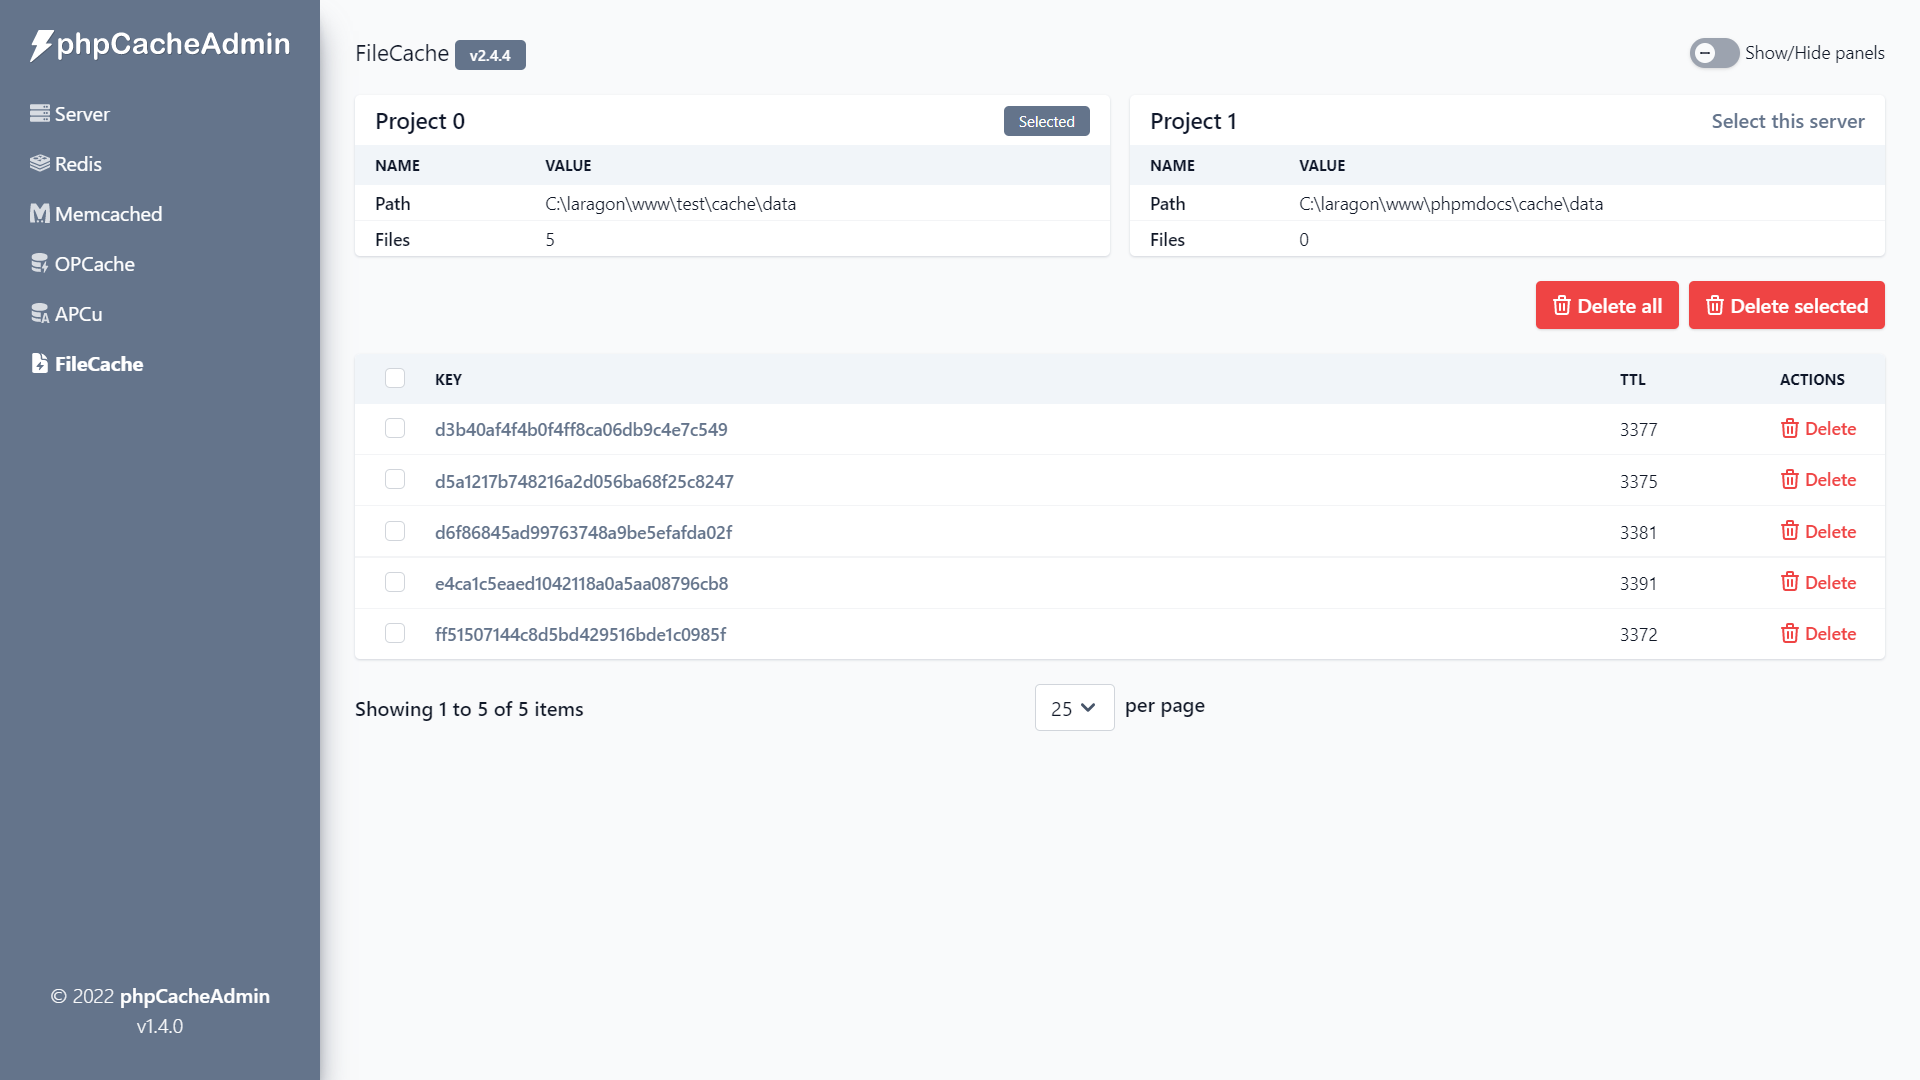
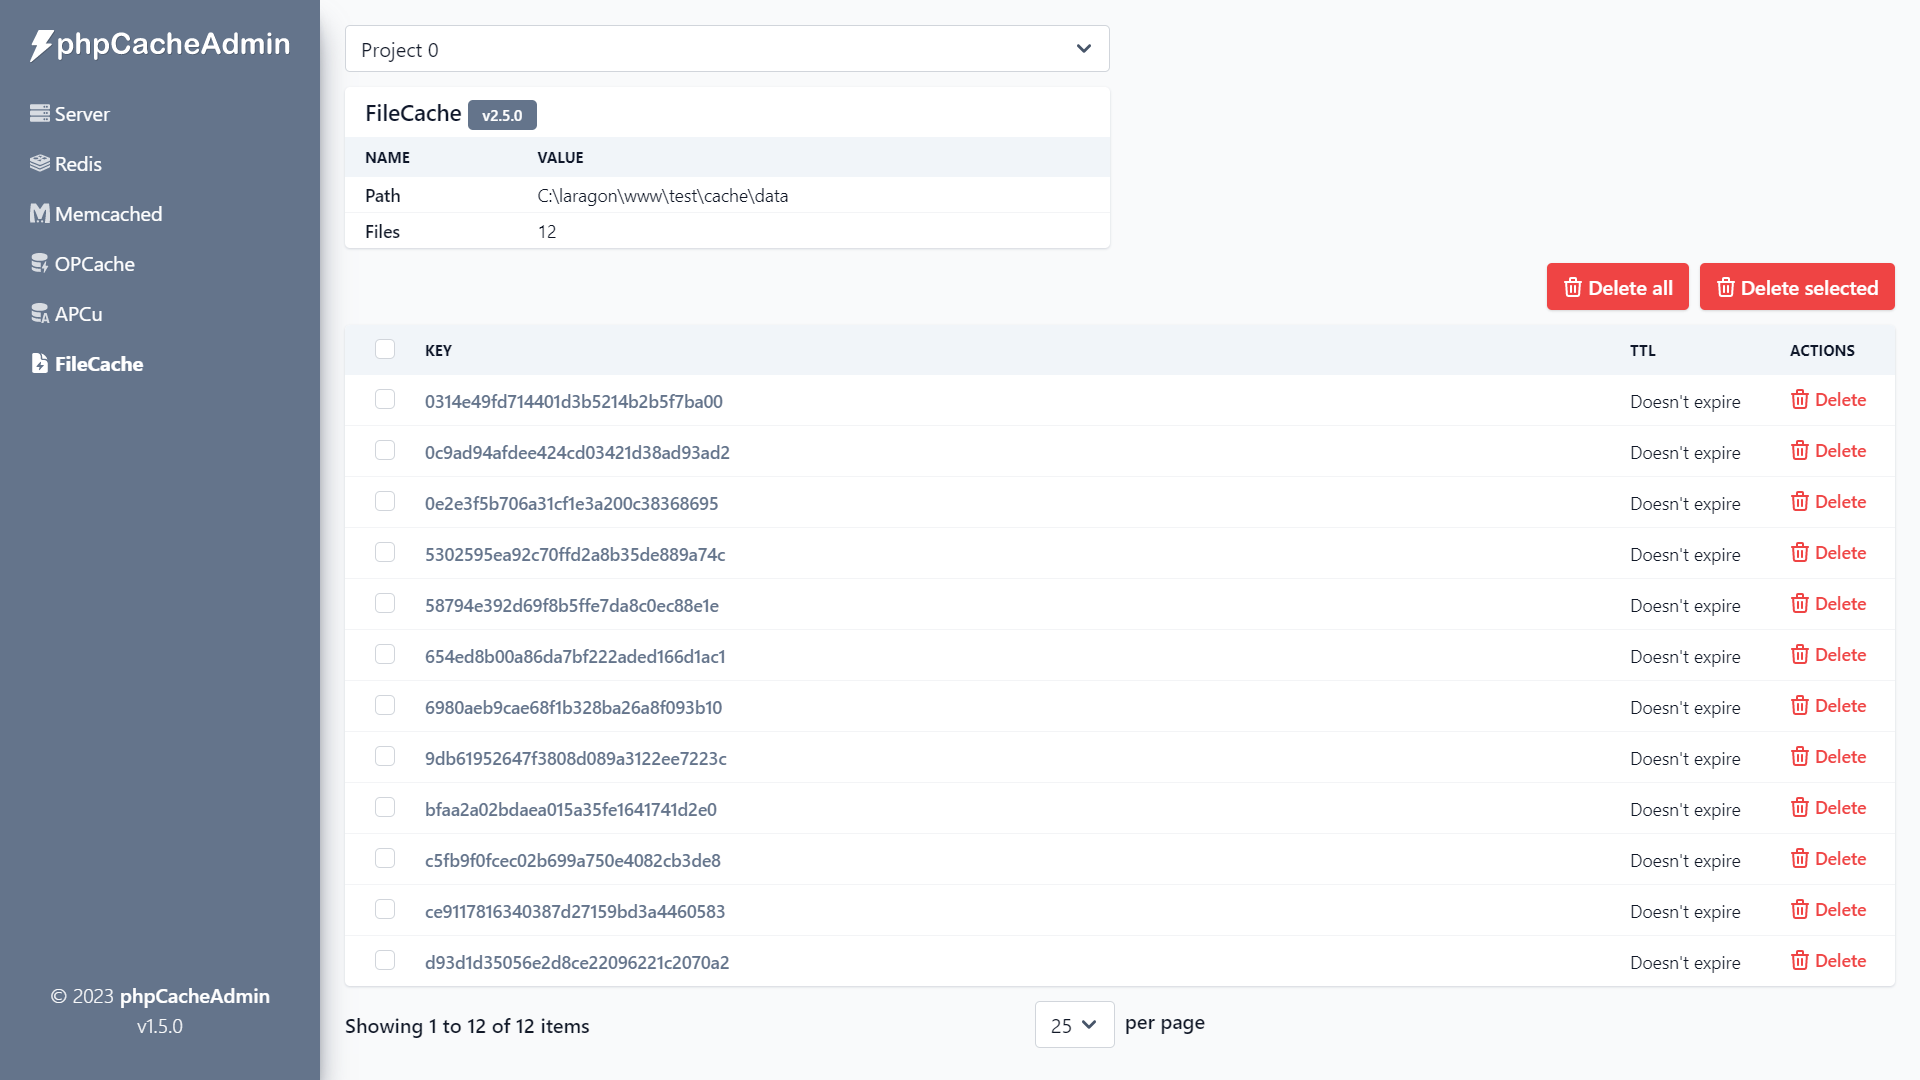
v1.3.0

diff --git a/src/FileCacheTrait.php b/src/FileCacheTrait.php
@@ -12,8 +12,7 @@ declare(strict_types=1);
 
 namespace RobiNN\FileCache;
 
-use RobiNN\Cache\CacheException;
-use RobiNN\Pca\Dashboards\DashboardException;
+use RobiNN\Cache\Cache;
 use RobiNN\Pca\Format;
 use RobiNN\Pca\Helpers;
 use RobiNN\Pca\Http;
@@ -21,31 +20,21 @@ use RobiNN\Pca\Paginator;
 use RobiNN\Pca\Value;
 
 trait FileCacheTrait {
-    /**
-     * @return array<int, mixed>
-     */
-    private function panels(): array {
-        $panels = [];
+    private function panels(): string {
+        $project = $this->projects[$this->current_project];
 
-        foreach ($this->projects as $id => $project) {
-            try {
-                $files = count($this->connect($project)->keys());
-            } catch (DashboardException|CacheException) {
-                $files = 'An error occurred while retrieving files.';
-            }
-
-            $panels[] = [
-                'title'            => $project['name'] ?? 'Project '.$id,
-                'server_selection' => true,
-                'current_server'   => $this->current_project,
-                'data'             => [
+        $panels = [
+            [
+                'title'             => 'FileCache',
+                'extension_version' => Cache::VERSION,
+                'data'              => [
                     'Path'  => is_dir((string) $project['path']) ? realpath((string) $project['path']) : $project['path'],
-                    'Files' => $files,
+                    'Files' => count($this->filecache->keys()),
                 ],
-            ];
-        }
+            ],
+        ];
 
-        return $panels;
+        return $this->template->render('partials/info', ['panels' => $panels]);
     }
 
     private function viewKey(): string {
@@ -103,7 +92,17 @@ trait FileCacheTrait {
 
         $paginator = new Paginator($this->template, $keys);
 
+        $projects = [];
+
+        foreach ($this->projects as $id => $project) {
+            if (!isset($project['name'])) {
+                $projects[$id]['name'] = 'Project '.$id;
+            }
+        }
+
         return $this->template->render('@filecache/filecache', [
+            'select'      => Helpers::serverSelector($this->template, $projects, $this->current_project),
+            'panels'      => $this->panels(),
             'keys'        => $paginator->getPaginated(),
             'all_keys'    => count($keys),
             'new_key_url' => Http::queryString([], ['form' => 'new']),

diff --git a/src/FileCacheDashboard.php b/src/FileCacheDashboard.php
@@ -25,7 +25,7 @@ use RobiNN\Pca\Template;
 class FileCacheDashboard implements DashboardInterface {
     use FileCacheTrait;
 
-    final public const VERSION = '1.2.0';
+    final public const VERSION = '1.3.0';
 
     /**
      * @var array<int, array<string, int|string>>
@@ -98,19 +98,6 @@ class FileCacheDashboard implements DashboardInterface {
         }
 
         return $return;
-    }
-
-    public function infoPanels(): string {
-        // Hide panels on view-key page.
-        if (isset($_GET['view'], $_GET['key'])) {
-            return '';
-        }
-
-        return $this->template->render('partials/info', [
-            'title'             => 'FileCache',
-            'extension_version' => Cache::VERSION,
-            'info'              => ['panels' => $this->panels()],
-        ]);
     }
 
     public function dashboard(): string {

diff --git a/README.md b/README.md
@@ -34,7 +34,7 @@ the project or have access to folders outside of website root.
 ## Requirements
 
 - PHP >= 8.2
-- phpCacheAdmin >= 1.4.1
+- phpCacheAdmin >= 1.5.0
 
 ## Testing
 
